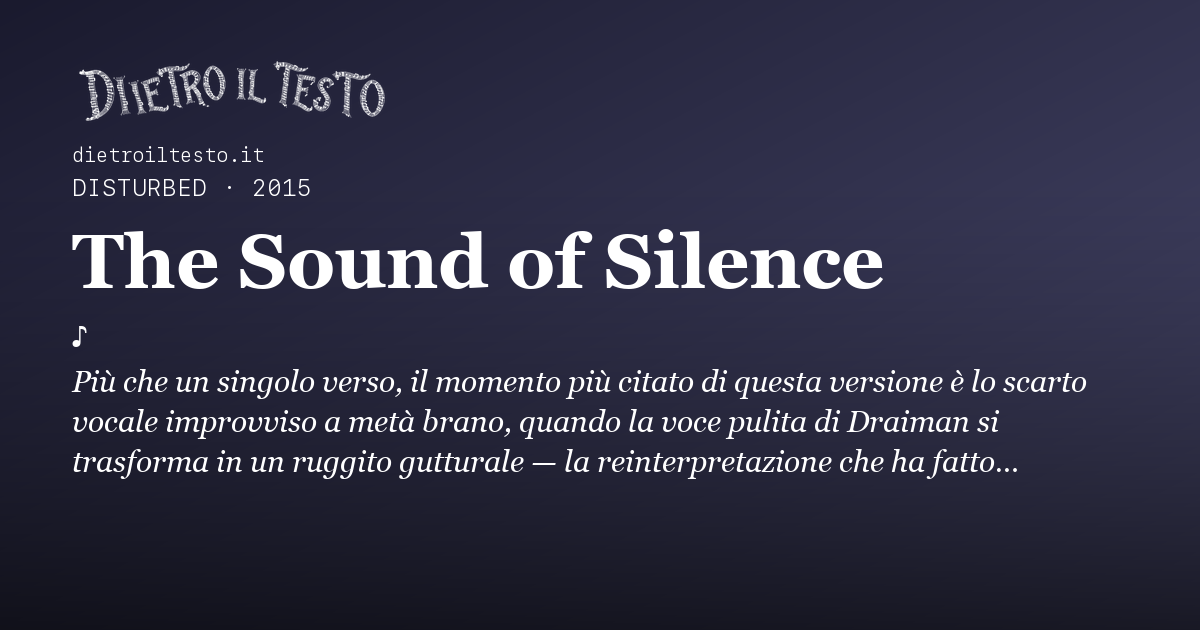
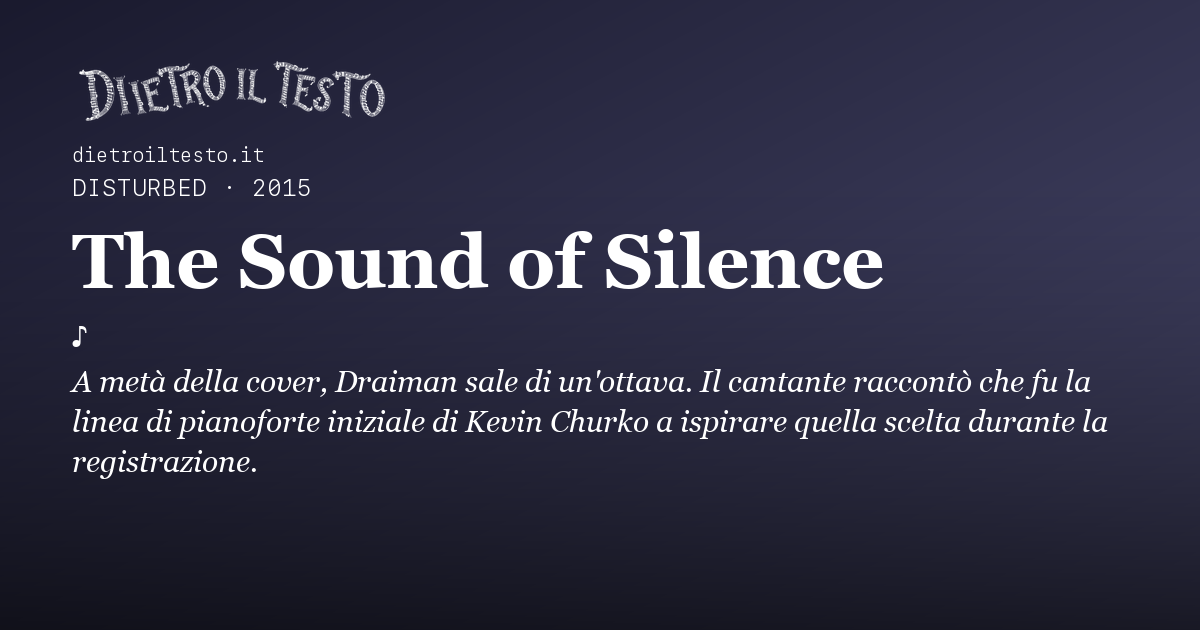
Correggi scheda The Sound of Silence dei Disturbed

Changed region(s): [[0.0617, 0.573, 0.925, 0.6937], [0.0617, 0.7238, 0.8325, 0.754]]

diff --git a/ROADMAP.md b/ROADMAP.md
@@ -4165,3 +4165,13 @@ Nella copia separata è stata riscritta la frase iconica a livello di funzione d
 Il proprietario ha scritto «applica e procedi» dopo aver visto la proposta del §30. Il commit `c2279c74` è stato integrato con avanzamento diretto in `main` locale. Rigenerato il sito: 26 file pubblicabili sono cambiati, fra cui la pagina della canzone, le anteprime collegate, l'indice di ricerca e le sitemap. Tutti i file del pacchetto generato coincidono byte per byte con quelli della cartella principale. Il file non tracciato `SEO-LASTMOD-2026-09-21.md` conserva lo stesso hash SHA-256 precedente.
 
 **Controlli:** `check-coerenza`, `check-seo`, `check-link`, `check-filtri`, `check-nature` e `git diff --check` passano. La verifica visiva desktop e mobile della pagina e dell'immagine condivisibile è documentata al §30. La modifica è nella cartella principale locale; non è stata inviata a GitHub né pubblicata online. Le correzioni di altre schede e le proposte di immagini restano in copie separate.
+
+## 38. Proposta separata: The Sound of Silence dei Disturbed, 1 ottobre 2026
+
+**Problema.** Il rapporto indipendente `rapporti/orario/01-sound-of-silence-disturbed.md` ha segnalato un presunto «ruggito gutturale» nella frase iconica, un'orchestra dal vivo a *Conan*, l'effetto di riscoperta generazionale e un conteggio Spotify associato alla pagina generale di Kworb. La scheda online presentava queste affermazioni come fatti, senza fonti pertinenti che le dimostrassero.
+
+**Correzione preparata.** In una copia separata sono stati riscritti corpo e momento iconico: la voce sale di un'ottava secondo [l'intervista diretta a David Draiman su Music Feeds](https://musicfeeds.com.au/features/disturbed-talk-breaking-hiatus-sound-silence-cover/); la scelta di un arrangiamento acustico e orchestrale e la linea iniziale di pianoforte vengono dalla stessa intervista. L'[annuncio ufficiale dei Disturbed](https://disturbed1.com/the-hiatus-is-over-new-album-immortalized/) documenta *Immortalized* e la traccia; l'[archivio ufficiale di Paul Simon](https://www.paulsimon.com/track/the-sound-of-silence-9/) attribuisce parole e musica a Simon nel 1964. La data dell'esibizione a *Conan* e la reazione di Simon sono documentate da [Ultimate Classic Rock](https://ultimateclassicrock.com/paul-simon-disturbed-sound-of-silence/). Tolti il primato di diffusione, l'orchestra dal vivo non documentata e i giudizi attribuiti al pubblico. Il descrittore musicale passa da «Alternative metal» a «Rock orchestrale», coerente con la descrizione dell'arrangiamento nella fonte diretta. Rimossi il numero Spotify privo di prova puntuale e il link generico a Kworb. Le quattro fonti pertinenti sono ora nominate nella pagina.
+
+**Prove.** Rigenerate 687 pagine più 404 e la sola immagine condivisibile della canzone, controllata visivamente per intero senza troncamenti. La pagina mostra il testo nuovo su desktop a 1280 px e mobile a 390 px, senza fuoriuscita orizzontale né errori di console; il vecchio conteggio e il «ruggito gutturale» non compaiono. Passano `check-coerenza`, `check-seo`, `check-link`, `check-attribuzioni --tutte` e `git diff --check`. Il controllo attribuzioni continua a segnalare 30 avvisi informativi relativi ad altre schede. Catalogo invariato: 317 canzoni, 104 artisti, 251 album.
+
+**Limiti e stato.** Correzione mirata, non revisione completa della scheda: la data di ultima verifica non viene aggiornata e il sito continua a indicare che la scheda non è stata verificata frase per frase. Il lettore e il collegamento al testo esterno non sono stati riverificati in questo lotto. Proposta locale pronta per revisione; nessun trasferimento nella cartella principale, push o pubblicazione. La modifica all'archivio JSON andrà integrata per singola voce con gli altri lotti editoriali in attesa, senza sovrascriverli.
